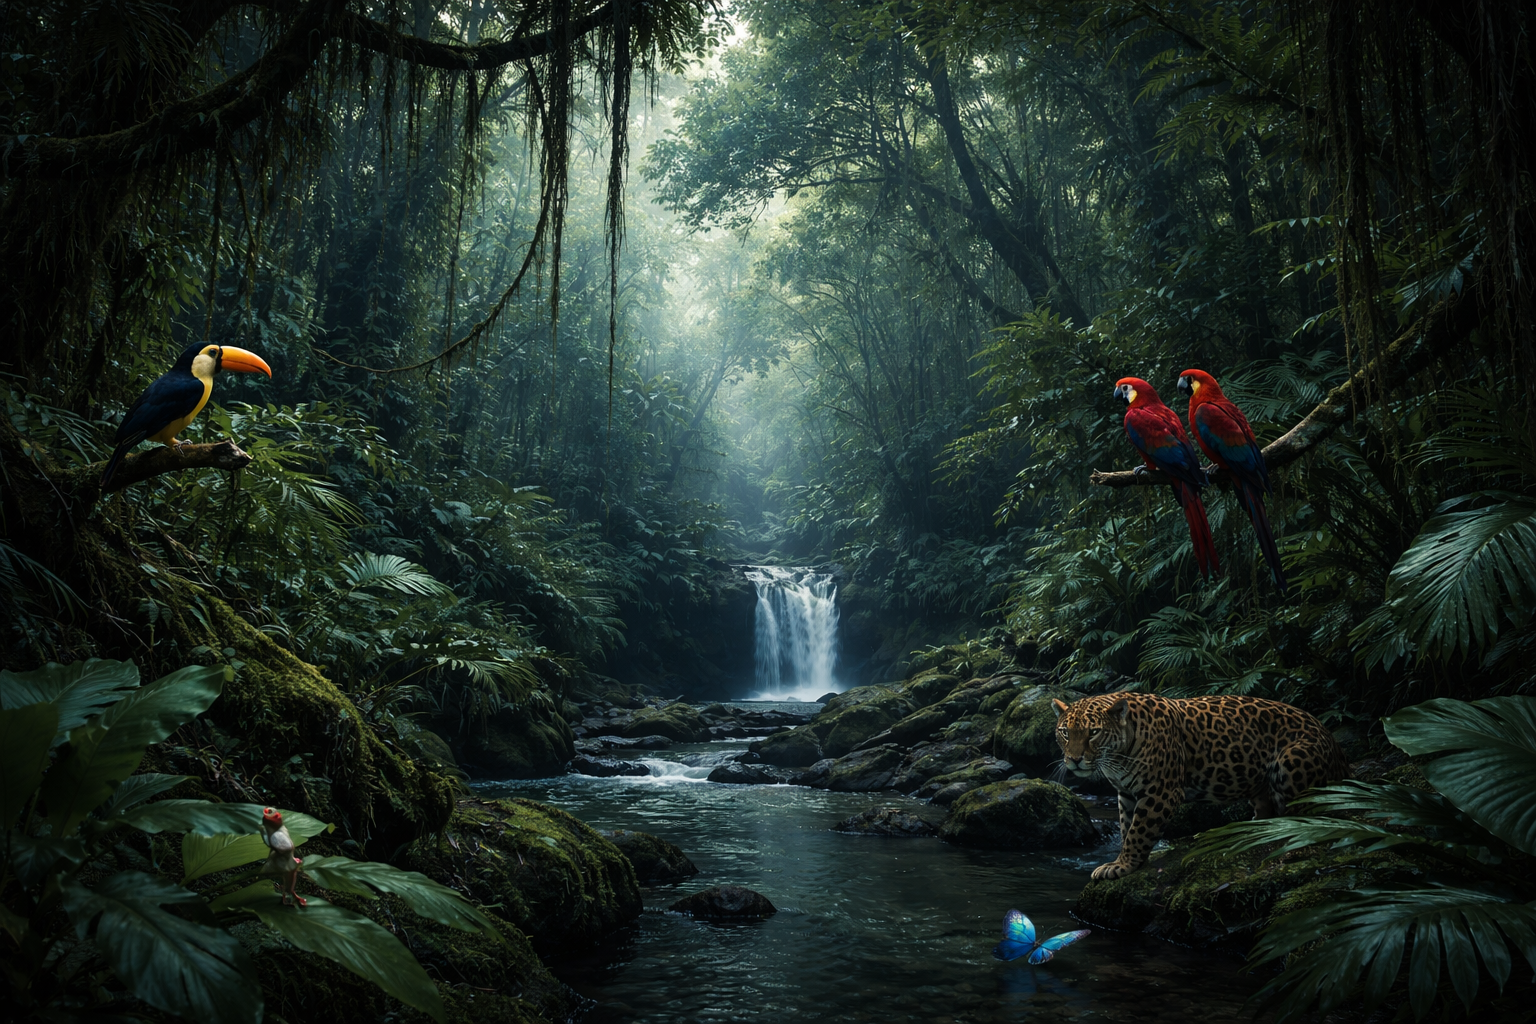
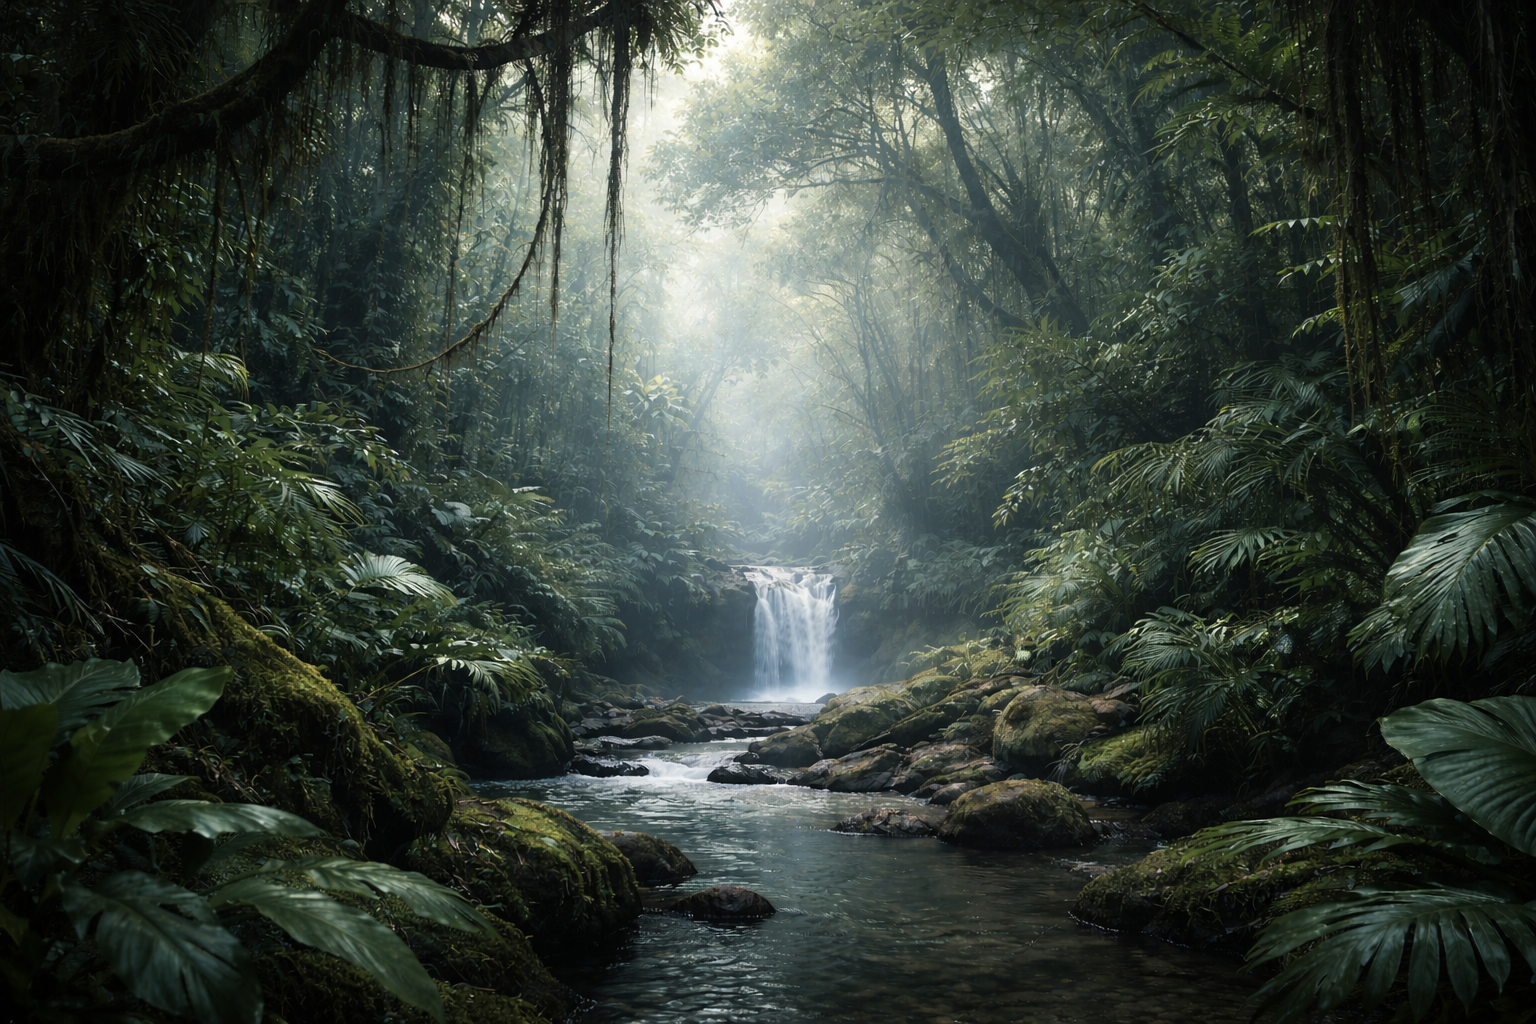
adjust theme

diff --git a/src/app/globals.css b/src/app/globals.css
@@ -1,119 +1,122 @@
 :root {
-  --background: #fff9f0;
-  --foreground: #2d2013;
+  --background: #edf6f1;
+  --foreground: #17322d;
+  --page-background-image: url("/djungle.png");
 
-  --surface: rgba(255, 255, 255, 0.92);
-  --surface-muted: #fff3e4;
-  --surface-elevated: #fffbf6;
+  --surface: rgba(246, 252, 249, 0.9);
+  --surface-muted: #dcefe7;
+  --surface-elevated: #f4fbf8;
 
-  --text-primary: #2e1c0f;
-  --text-secondary: #5d4633;
-  --text-muted: #8a5a26;
+  --text-primary: #153630;
+  --text-secondary: #3b6259;
+  --text-muted: #557f77;
 
-  --border-soft: rgba(117, 76, 36, 0.12);
-  --border-strong: #d8c4ad;
-  --border-muted: #ead8c2;
+  --border-soft: rgba(41, 90, 79, 0.14);
+  --border-strong: #99c5b8;
+  --border-muted: #c5e0d8;
 
-  --accent: #cc7a28;
-  --accent-strong: #8a5a26;
-  --accent-soft: #f5e4d0;
+  --accent: #2d8f87;
+  --accent-strong: #1d655f;
+  --accent-soft: #d7efec;
 
-  --success-bg: #e6f8ec;
-  --success-border: #63ba83;
-  --success-text: #1c6f3e;
+  --success-bg: #e1f6ea;
+  --success-border: #55a87b;
+  --success-text: #1d6a49;
 
-  --danger-bg: #ffeaea;
-  --danger-border: #d87878;
-  --danger-text: #9a3232;
+  --danger-bg: #fff0f1;
+  --danger-border: #d9818e;
+  --danger-text: #9d3447;
 
-  --info-bg: #eaf4ff;
-  --info-border: #8fc3ff;
-  --info-text: #10427a;
+  --info-bg: #e8f6fb;
+  --info-border: #71b6cc;
+  --info-text: #16576f;
 
-  --shadow-soft: rgba(91, 59, 28, 0.12);
+  --shadow-soft: rgba(20, 56, 49, 0.14);
 
-  --page-gradient-top: rgba(255, 210, 154, 0.45);
-  --page-gradient-start: #fffaf0;
-  --page-gradient-end: #f6efe4;
+  --page-gradient-top: rgba(92, 180, 154, 0.2);
+  --page-gradient-start: #f2faf6;
+  --page-gradient-end: #deefe9;
 }
 
 :root[data-theme="dark"] {
-  --background: #100d0b;
-  --foreground: #f5ede6;
+  --background: #07141d;
+  --foreground: #e6f1f7;
+  --page-background-image: url("/djungle-dark.png");
 
-  --surface: rgba(34, 28, 23, 0.94);
-  --surface-muted: #352b22;
-  --surface-elevated: #2a221c;
+  --surface: rgba(10, 22, 33, 0.88);
+  --surface-muted: #112b3b;
+  --surface-elevated: #0d2230;
 
-  --text-primary: #f5ede6;
-  --text-secondary: #dbc6b2;
-  --text-muted: #e2af79;
+  --text-primary: #e6f1f7;
+  --text-secondary: #b8cddd;
+  --text-muted: #8cacbc;
 
-  --border-soft: rgba(231, 185, 142, 0.18);
-  --border-strong: #6b5542;
-  --border-muted: #5d4a3a;
+  --border-soft: rgba(138, 189, 214, 0.16);
+  --border-strong: #3f6075;
+  --border-muted: #294457;
 
-  --accent: #e49b4a;
-  --accent-strong: #d88a3a;
-  --accent-soft: #463425;
+  --accent: #5fa0c0;
+  --accent-strong: #447c9a;
+  --accent-soft: #173844;
 
-  --success-bg: #1b3727;
-  --success-border: #5fa57c;
-  --success-text: #bde7cb;
+  --success-bg: #173128;
+  --success-border: #5e9a79;
+  --success-text: #c8e7d6;
 
-  --danger-bg: #482525;
-  --danger-border: #bb7070;
-  --danger-text: #ffd1d1;
+  --danger-bg: #46252e;
+  --danger-border: #b76c7b;
+  --danger-text: #ffd5dc;
 
-  --info-bg: #1f344b;
-  --info-border: #6eaef4;
-  --info-text: #d5e9ff;
+  --info-bg: #17394a;
+  --info-border: #6caecc;
+  --info-text: #d8f0fa;
 
   --shadow-soft: rgba(0, 0, 0, 0.4);
 
-  --page-gradient-top: rgba(212, 129, 34, 0.18);
-  --page-gradient-start: #1a1410;
-  --page-gradient-end: #120d09;
+  --page-gradient-top: rgba(99, 160, 196, 0.16);
+  --page-gradient-start: #0a1923;
+  --page-gradient-end: #07131b;
 }
 
 @media (prefers-color-scheme: dark) {
   :root:not([data-theme]) {
-    --background: #100d0b;
-    --foreground: #f5ede6;
+    --background: #07141d;
+    --foreground: #e6f1f7;
+    --page-background-image: url("/djungle-dark.png");
 
-    --surface: rgba(34, 28, 23, 0.94);
-    --surface-muted: #352b22;
-    --surface-elevated: #2a221c;
+    --surface: rgba(10, 22, 33, 0.88);
+    --surface-muted: #112b3b;
+    --surface-elevated: #0d2230;
 
-    --text-primary: #f5ede6;
-    --text-secondary: #dbc6b2;
-    --text-muted: #e2af79;
+    --text-primary: #e6f1f7;
+    --text-secondary: #b8cddd;
+    --text-muted: #8cacbc;
 
-    --border-soft: rgba(231, 185, 142, 0.18);
-    --border-strong: #6b5542;
-    --border-muted: #5d4a3a;
+    --border-soft: rgba(138, 189, 214, 0.16);
+    --border-strong: #3f6075;
+    --border-muted: #294457;
 
-    --accent: #e49b4a;
-    --accent-strong: #d88a3a;
-    --accent-soft: #463425;
+    --accent: #5fa0c0;
+    --accent-strong: #447c9a;
+    --accent-soft: #173844;
 
-    --success-bg: #1b3727;
-    --success-border: #5fa57c;
-    --success-text: #bde7cb;
+    --success-bg: #173128;
+    --success-border: #5e9a79;
+    --success-text: #c8e7d6;
 
-    --danger-bg: #482525;
-    --danger-border: #bb7070;
-    --danger-text: #ffd1d1;
+    --danger-bg: #46252e;
+    --danger-border: #b76c7b;
+    --danger-text: #ffd5dc;
 
-    --info-bg: #1f344b;
-    --info-border: #6eaef4;
-    --info-text: #d5e9ff;
+    --info-bg: #17394a;
+    --info-border: #6caecc;
+    --info-text: #d8f0fa;
 
     --shadow-soft: rgba(0, 0, 0, 0.4);
 
-    --page-gradient-top: rgba(212, 129, 34, 0.18);
-    --page-gradient-start: #1a1410;
-    --page-gradient-end: #120d09;
+    --page-gradient-top: rgba(99, 160, 196, 0.16);
+    --page-gradient-start: #0a1923;
+    --page-gradient-end: #07131b;
   }
 }
 
@@ -133,7 +136,7 @@ body {
   flex-direction: column;
   color: var(--foreground);
   background-color: var(--background);
-  background-image: url("/djungle.png");
+  background-image: var(--page-background-image);
   background-attachment: fixed;
   background-position: center;
   background-repeat: no-repeat;

diff --git a/src/app/layout.tsx b/src/app/layout.tsx
@@ -6,6 +6,7 @@ import { NextIntlClientProvider } from "next-intl";
 import { ThemeToggle } from "@/app/ui/theme-toggle";
 import { getLocale, getMessages, getTranslations } from "@/i18n";
 import "./globals.css";
+import styles from "@/app/auth.module.css";
 
 export const metadata: Metadata = {
   title: "Simple Language Learning",
@@ -41,7 +42,7 @@ export default async function RootLayout({
           {themeInitializationScript}
         </Script>
         <NextIntlClientProvider locale={locale} messages={messages}>
-          <div style={{ display: "flex", gap: "0.75rem", justifyContent: "flex-start", padding: "1rem" }}>
+          <div className={styles.topBar} >
             <Link href="/settings">{t("common.settings")}</Link>
             <ThemeToggle />
           </div>

diff --git a/src/app/auth.module.css b/src/app/auth.module.css
@@ -542,3 +542,14 @@
   cursor: pointer;
   text-align: center;
 }
+
+.topBar {
+  display: flex;
+  gap: 0.75rem;
+  justify-content: flex-start;
+  padding: 1rem;
+}
+
+.topBar a {
+  color: #fff;
+}
